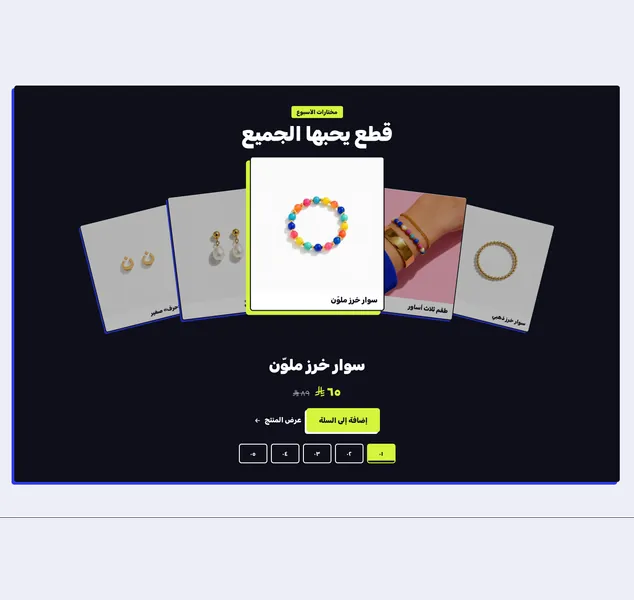
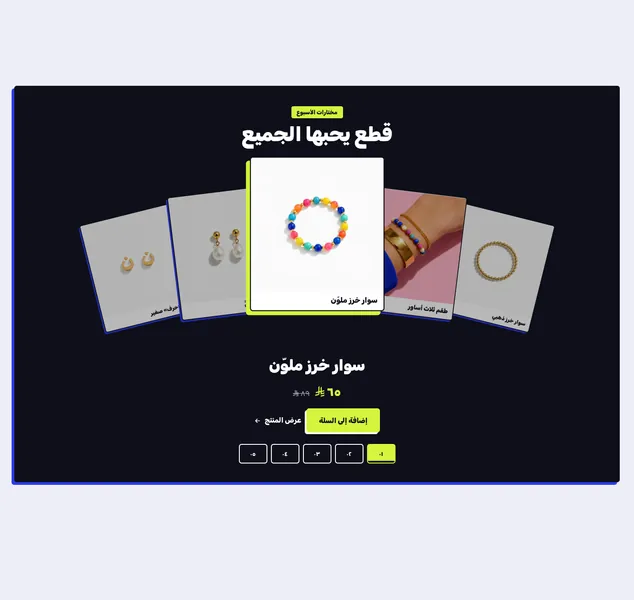
Add preview pictures for 23 Mosaic home blocks and a README table

diff --git a/README.md b/README.md
@@ -1,2 +1,42 @@
 # mosaic-previews
-Preview pictures for the Mosaic Salla theme's home blocks, served through jsDelivr
+
+Preview pictures for the Mosaic Salla theme's home blocks, served through jsDelivr:
+`https://cdn.jsdelivr.net/gh/Sob7i/mosaic-previews@v1/<file>`
+
+## Frame
+
+- 634 x 600 px, webp quality 80, 30 KB or less each.
+- Each picture is the block's own section at 1440 px wide, Arabic, light mode, captured at device scale factor 2, then scaled whole into the frame ("contain"). The letterbox colour is the corner pixel of the capture.
+- Content is the Mosaic demo store's real products, categories and photos.
+- `mosaic-promo` is the popup card, captured after its delay.
+
+## Pictures
+
+| Block | File | Bytes |
+|---|---|---|
+| home.mosaic-campaign-benefits | mosaic-campaign-benefits.webp | 1,874 |
+| home.mosaic-campaign-closing | mosaic-campaign-closing.webp | 3,584 |
+| home.mosaic-campaign-faq | mosaic-campaign-faq.webp | 3,104 |
+| home.mosaic-campaign-hero | mosaic-campaign-hero.webp | 9,778 |
+| home.mosaic-campaign-reviews | mosaic-campaign-reviews.webp | 4,886 |
+| home.mosaic-campaign-sets | mosaic-campaign-sets.webp | 10,966 |
+| home.mosaic-campaign-steps | mosaic-campaign-steps.webp | 5,520 |
+| home.mosaic-collection | mosaic-collection.webp | 11,386 |
+| home.mosaic-compare | mosaic-compare.webp | 10,484 |
+| home.mosaic-fan | mosaic-fan.webp | 11,658 |
+| home.mosaic-faq | mosaic-faq.webp | 5,040 |
+| home.mosaic-finder | mosaic-finder.webp | 7,630 |
+| home.mosaic-flash-offers | mosaic-flash-offers.webp | 12,942 |
+| home.mosaic-gift-set | mosaic-gift-set.webp | 10,696 |
+| home.mosaic-grid | mosaic-grid.webp | 12,992 |
+| home.mosaic-newsletter | mosaic-newsletter.webp | 3,094 |
+| home.mosaic-notes | mosaic-notes.webp | 8,832 |
+| home.mosaic-offer | mosaic-offer.webp | 7,112 |
+| home.mosaic-promo | mosaic-promo.webp | 12,672 |
+| home.mosaic-shorts | mosaic-shorts.webp | 17,388 |
+| home.mosaic-slideshow | mosaic-slideshow.webp | 14,106 |
+| home.mosaic-ticker | mosaic-ticker.webp | 4,160 |
+| home.mosaic-video | mosaic-video.webp | 4,108 |
+
+`home.mosaic-blog` has no picture yet: the demo store's blog is switched off, so the block renders nothing.
+`home.mosaic-highlights` is not here yet.
